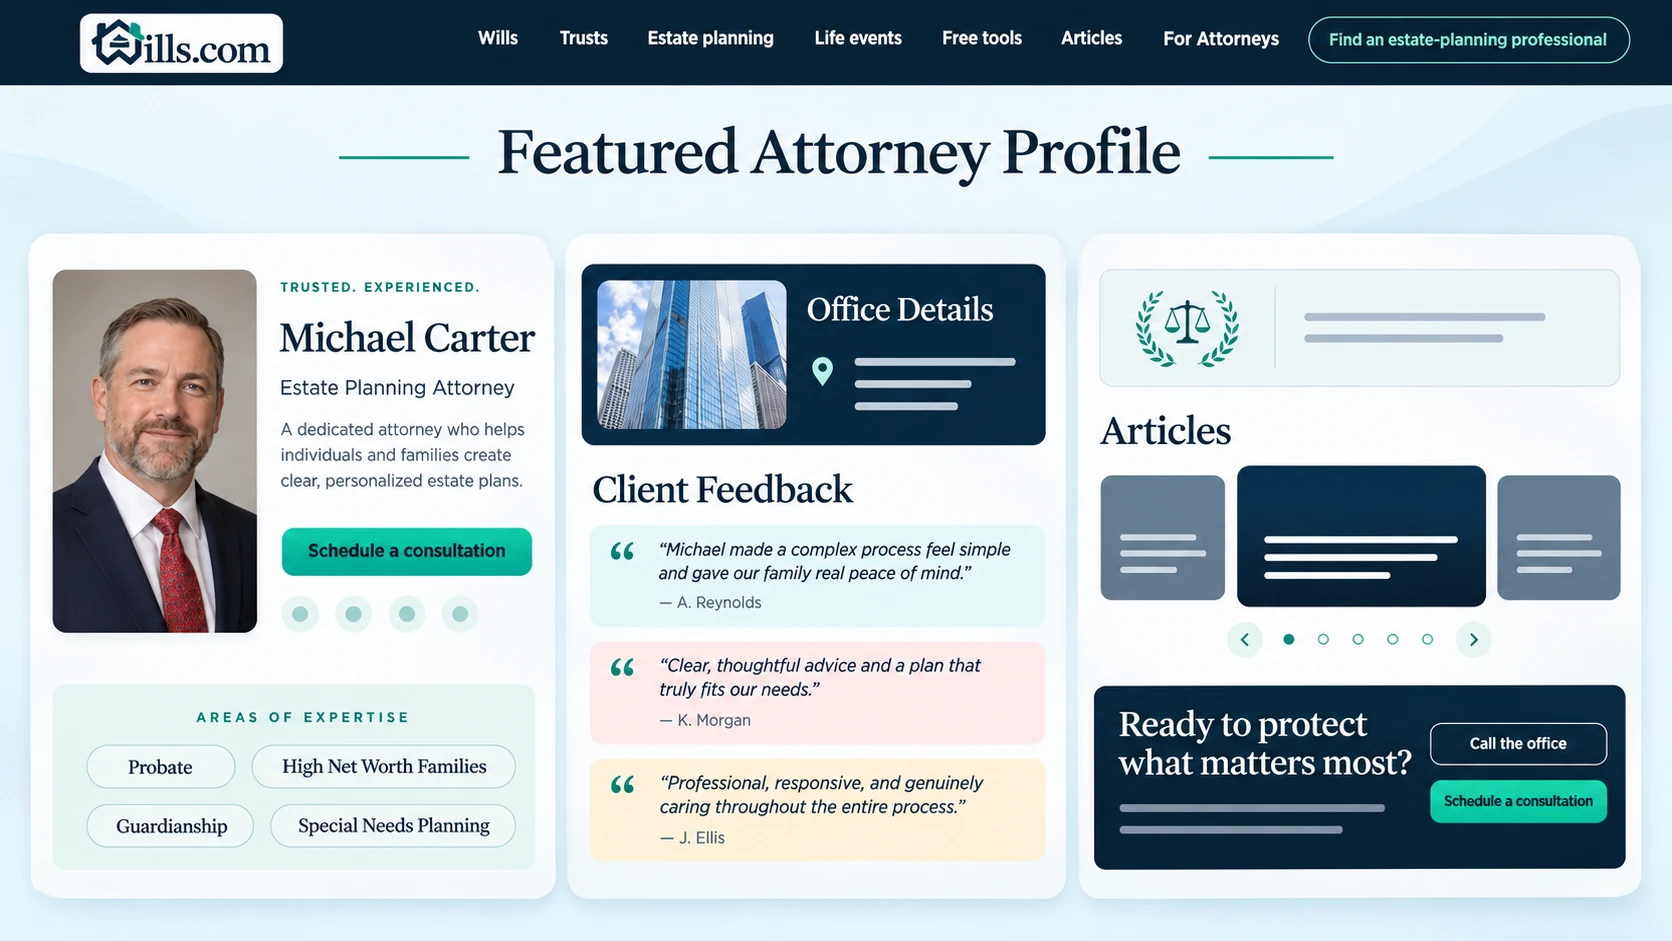
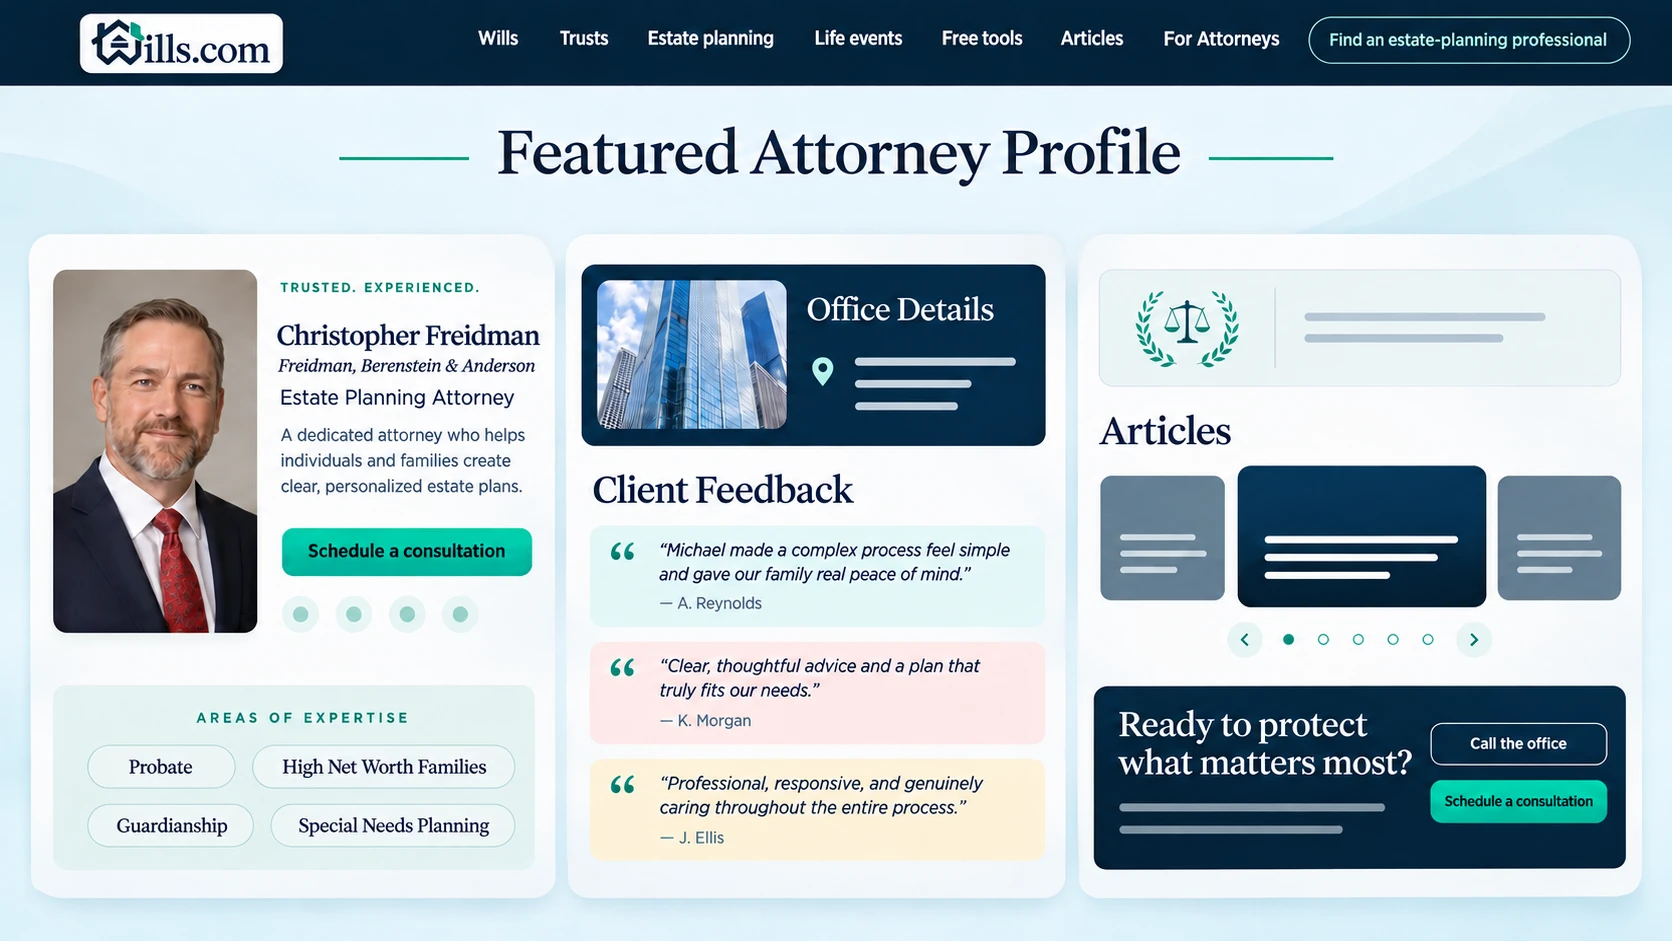
Update Founding Profile preview image

diff --git a/app/(website)/for-attorneys/page.tsx b/app/(website)/for-attorneys/page.tsx
@@ -1,5 +1,6 @@
 import {AttorneyContactForm} from '@/components/site/AttorneyContactForm'
 import {ButtonLink} from '@/components/site/ButtonLink'
+import foundingProfilePreview from '@/public/images/estate-planning/founding-profile-preview.webp'
 import {getAttorneyProgram} from '@/sanity/lib/attorneyProgram'
 import {
   attorneyProgramContent,
@@ -132,10 +133,8 @@ function ProgramPage({page}: {page: AttorneyProgramContent}) {
                   </ul>
                 </div>
                 <Image
-                  src="/images/estate-planning/founding-profile-preview.webp"
+                  src={foundingProfilePreview}
                   alt="Illustration of a featured attorney profile with office details, client feedback, and articles"
-                  width={1672}
-                  height={941}
                   sizes="(min-width: 768px) 352px, calc(100vw - 6rem)"
                   className="h-auto w-full rounded-xl"
                 />
